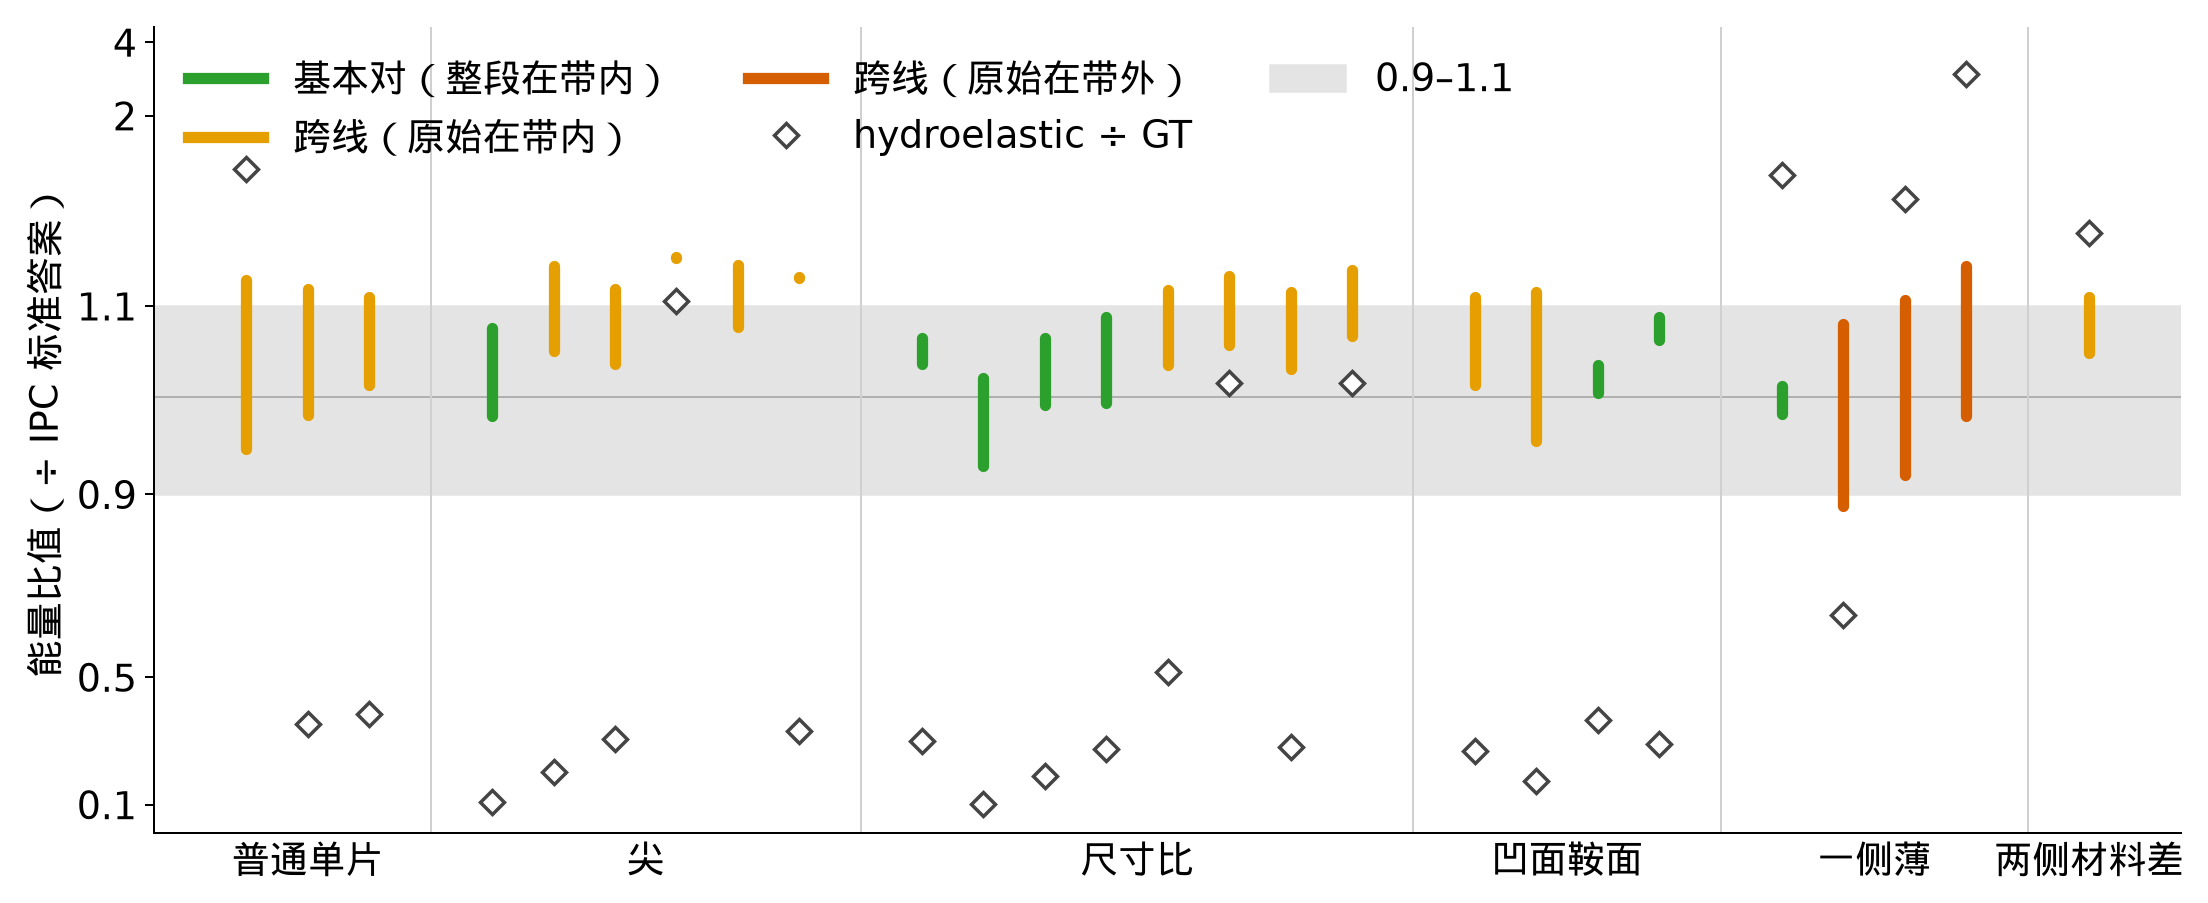
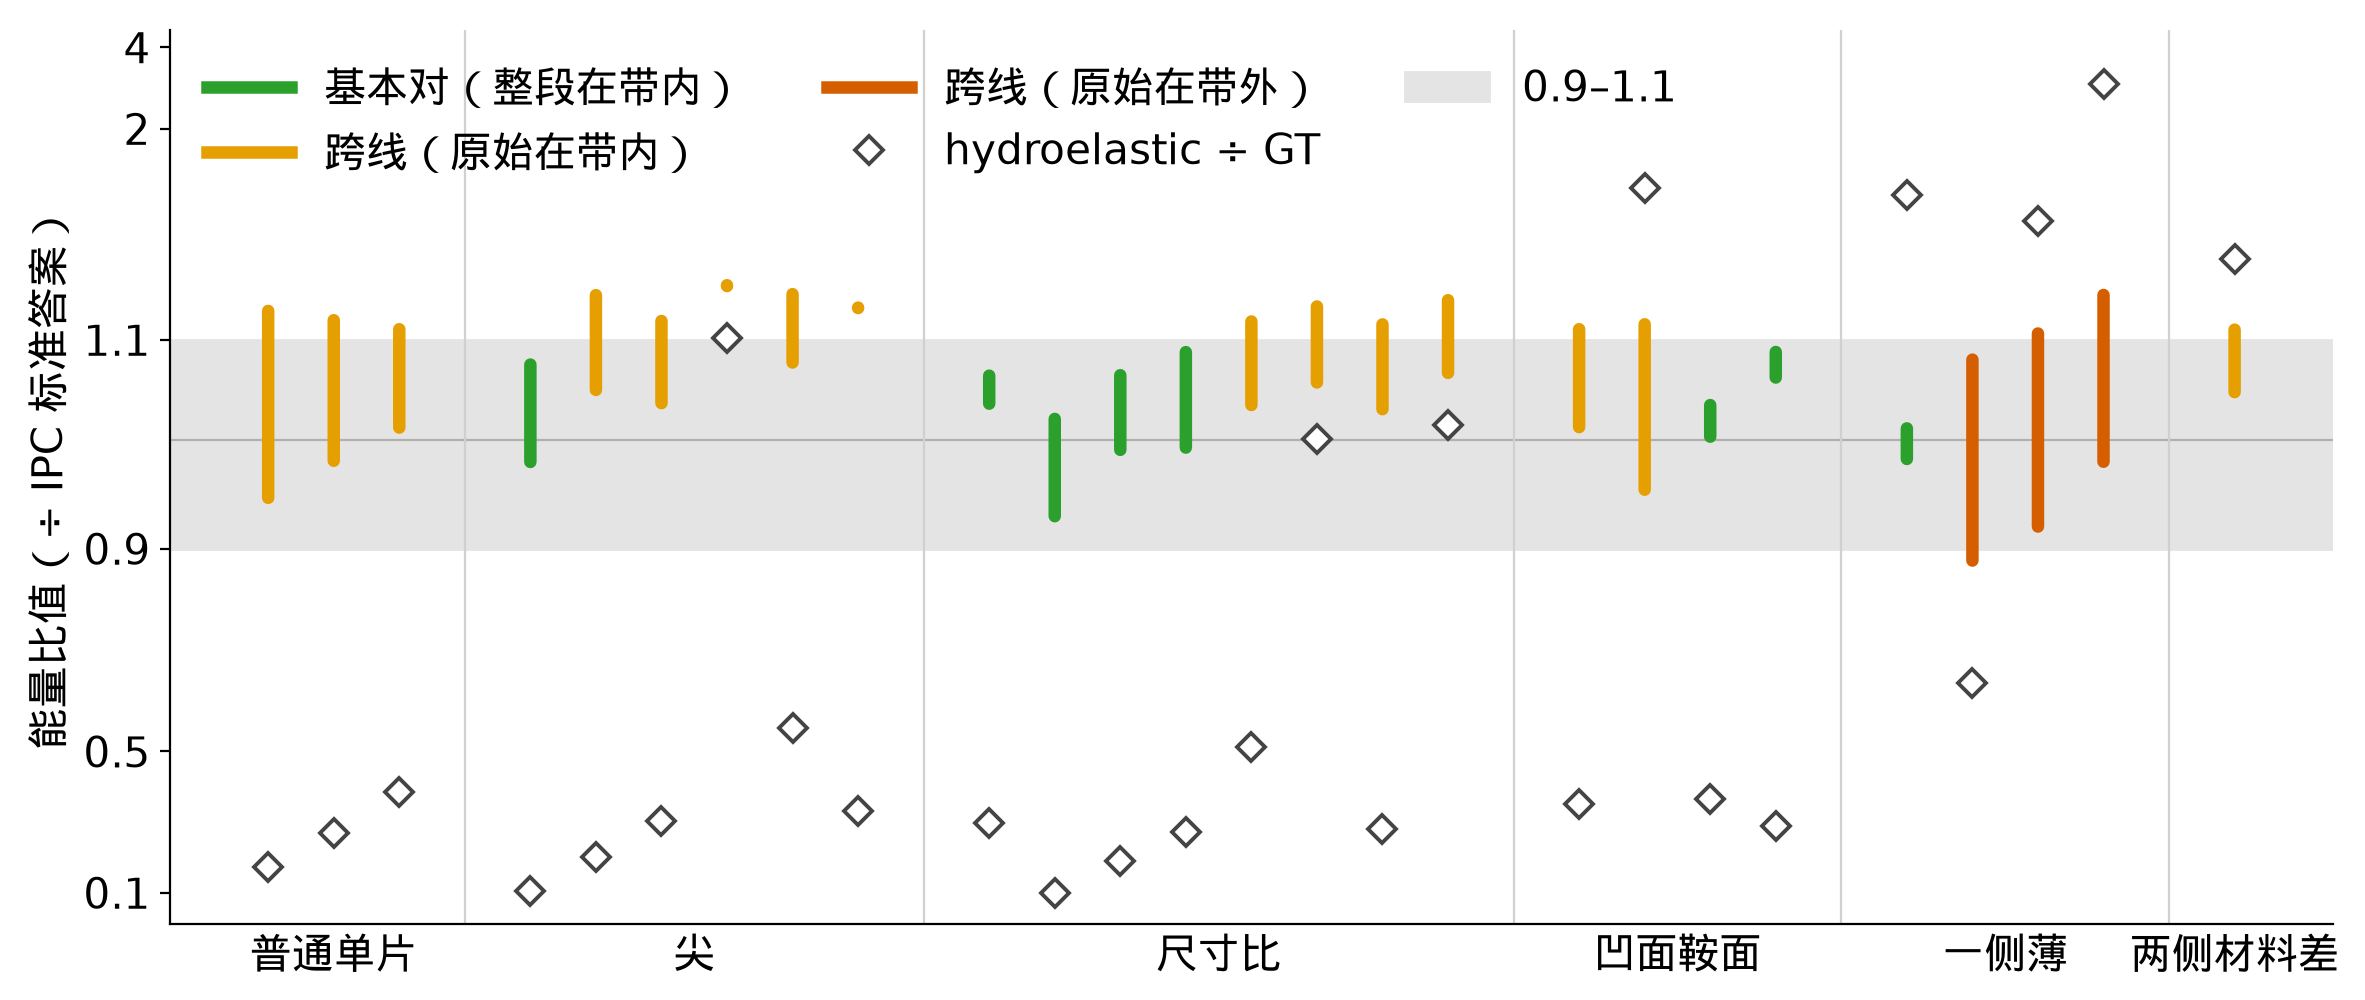
week5: F7/F8 per-object figures with all 26 hydro cases (E10 added; data hydro_verified_current26_r2_1122.json, intervals perobject_intervals_1122.json); hydro range 0.10-2.79 -> 0.10-2.77 (current exact-state records), F7 caption '26 例 hydroelastic'

diff --git a/week5 (1).md b/week5 (1).md
@@ -129,7 +129,7 @@ $$U_{\text{IPC}}=\sum_bE_b^{\text{fine}}-\sum_bE_b(\Phi z_b)$$
 ## 2.3 两项能 cover 什么：部分支持
 
 ![](assets/images/w5t_F7_ratio_intervals_perobject.png)
-*26 例逐物体 mode 骨架相对 IPC 标准答案的修正区间（竖条）与 hydroelastic ÷ GT（菱形）对比，灰带为 0.9–1.1。*
+*26 例逐物体 mode 骨架相对 IPC 标准答案的修正区间（竖条）与 26 例 hydroelastic ÷ GT（菱形）对比，灰带为 0.9–1.1。*
 
 在兔、龙、鸭互压的 26 例里，骨架有 8 例基本对、18 例跨线、没有一例明显不对；同一批例子上 hydroelastic 没有一例基本对：
 
@@ -138,7 +138,7 @@ $$U_{\text{IPC}}=\sum_bE_b^{\text{fine}}-\sum_bE_b(\Phi z_b)$$
 | hydroelastic | 0 | 2 | 24 |
 | 骨架 | 8 | 18 | 0 |
 
-按类别看，普通单片、鞍面、一侧薄、尺寸比的第 12 号样本和两侧材料差这几类是支持的：骨架和标准答案的比值在 0.77 到 0.98 之间，区间都在带内或跨线，没有明显不对。局部形状、物体的有限大小、薄处的整片弯曲，两项合起来都能表达。不支持的是尖处和尺寸比的第 7 号样本：比值在 1.0 到 1.06，骨架偏硬，修正区间整段或大半落在 1.1 以上，原因还待查。同样这 26 例上，hydroelastic 和标准答案的比值在 0.10 到 2.79 之间，只有 2 例的原始比值落在 0.9–1.1，修正区间没有一例整段在带内，24 例整段出带。压平块的 14 类逐物体 mode 重跑同样 0 例明显不对：基线、整体转动、面贴面、大面积贴合、近不可压、斜压 6 类基本对（0.865–0.959），其余 8 类跨线（其中尖 1.374、一侧薄 1.359 在均匀网格加密一档后分别降至 1.123、1.061；棱加密一档后为 1.228）。
+按类别看，普通单片、鞍面、一侧薄、尺寸比的第 12 号样本和两侧材料差这几类是支持的：骨架和标准答案的比值在 0.77 到 0.98 之间，区间都在带内或跨线，没有明显不对。局部形状、物体的有限大小、薄处的整片弯曲，两项合起来都能表达。不支持的是尖处和尺寸比的第 7 号样本：比值在 1.0 到 1.06，骨架偏硬，修正区间整段或大半落在 1.1 以上，原因还待查。同样这 26 例上，hydroelastic 和标准答案的比值在 0.10 到 2.77 之间，只有 2 例的原始比值落在 0.9–1.1，修正区间没有一例整段在带内，24 例整段出带。压平块的 14 类逐物体 mode 重跑同样 0 例明显不对：基线、整体转动、面贴面、大面积贴合、近不可压、斜压 6 类基本对（0.865–0.959），其余 8 类跨线（其中尖 1.374、一侧薄 1.359 在均匀网格加密一档后分别降至 1.123、1.061；棱加密一档后为 1.228）。
 
 <details>
 <summary>26 例逐个的数（原始比值 → 修正区间 · 判定）</summary>
@@ -223,7 +223,7 @@ S1、S2、S3 是同一构型由浅到深的三档压深。
 ![](assets/images/w5t_F8_skel_vs_hydro_perobject.png)
 *每一列是一个算例：蓝点是骨架除以 IPC，菱形是 hydroelastic 除以 IPC，灰带是 0.9 到 1.1。*
 
-hydroelastic 在每一点上只看本地穿进去多深，在 26 例里它的结果在标准答案的 0.10 倍到 2.79 倍之间，同一批例子上骨架在 0.77 到 1.06 之间。它看不到物体整体的弯曲，也看不到几处接触之间的相互影响，所以 cover 不了这些 edge case，而这正是骨架第二项补上的部分。
+hydroelastic 在每一点上只看本地穿进去多深，在 26 例里它的结果在标准答案的 0.10 倍到 2.77 倍之间，同一批例子上骨架在 0.77 到 1.06 之间。它看不到物体整体的弯曲，也看不到几处接触之间的相互影响，所以 cover 不了这些 edge case，而这正是骨架第二项补上的部分。
 ## 2.5 薄长部件要取够 mode
 
 ![](assets/images/w5t_F9_mode_count.png)
